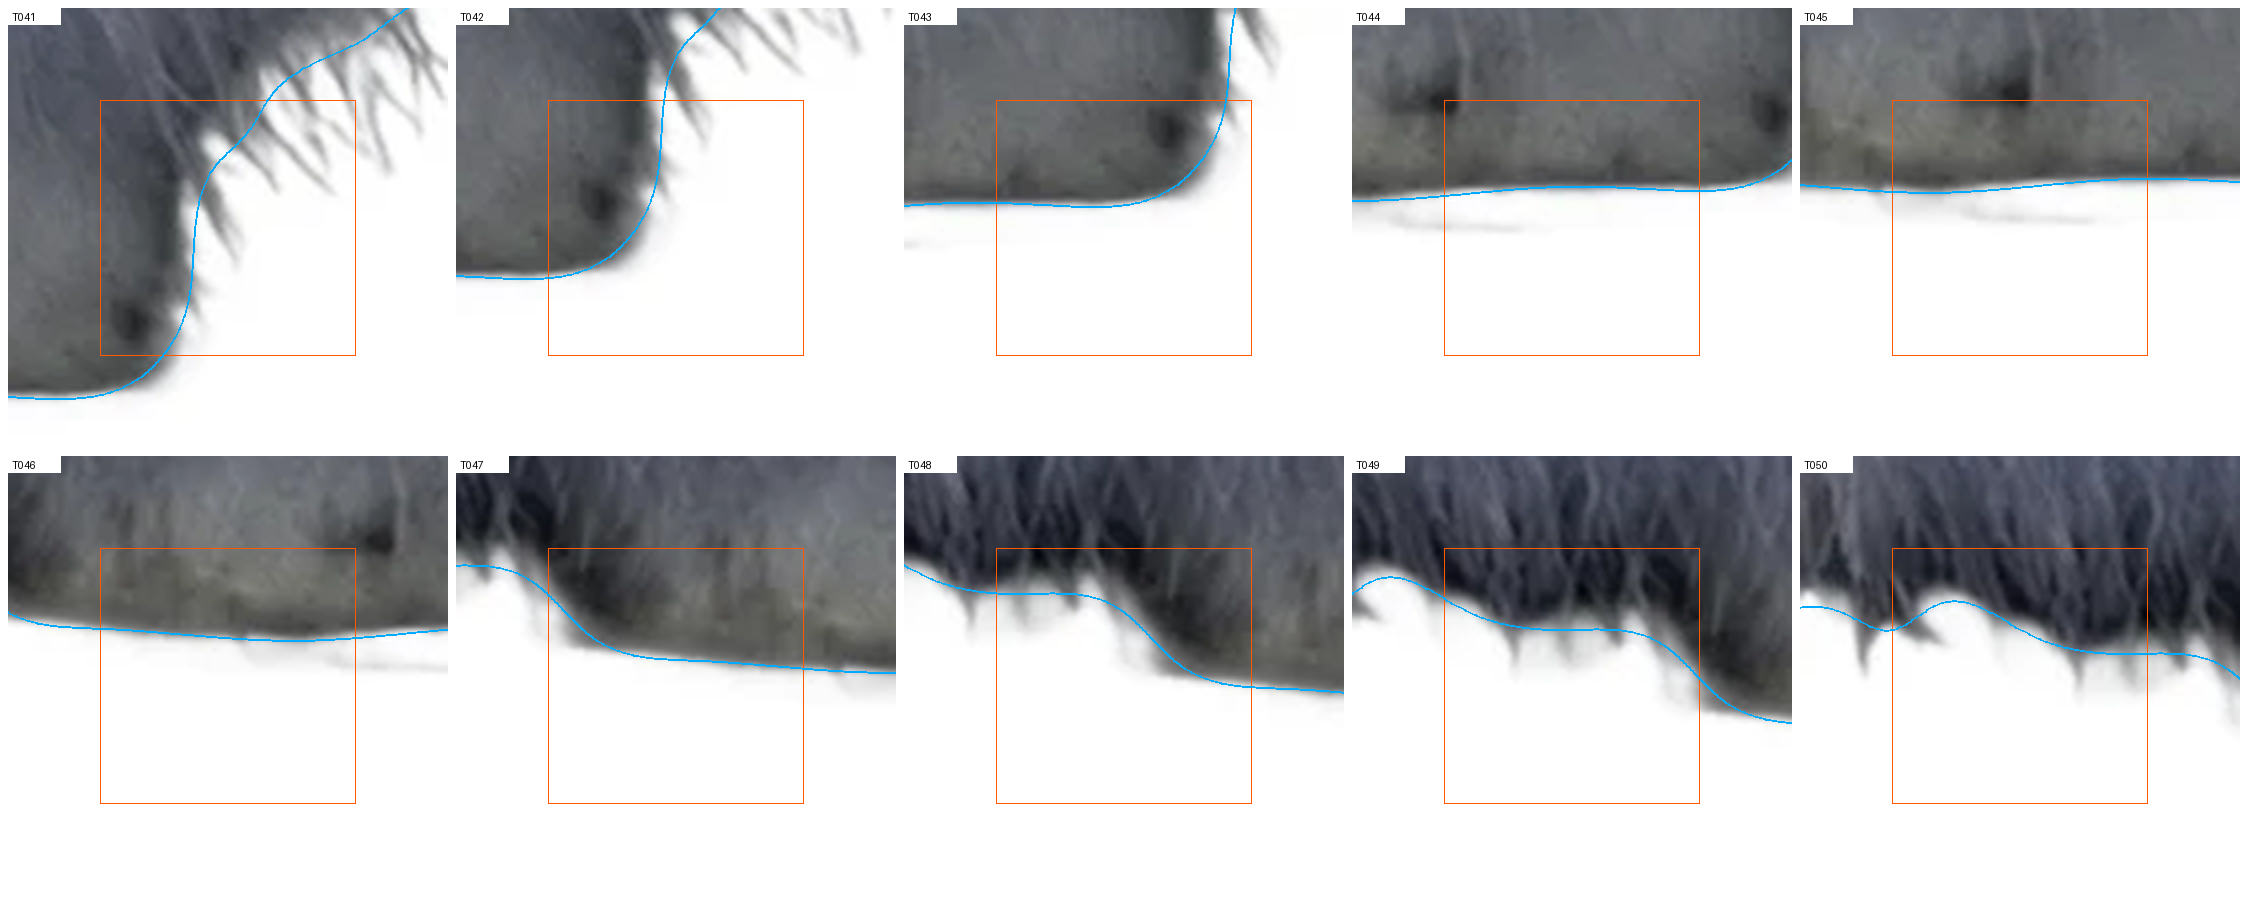
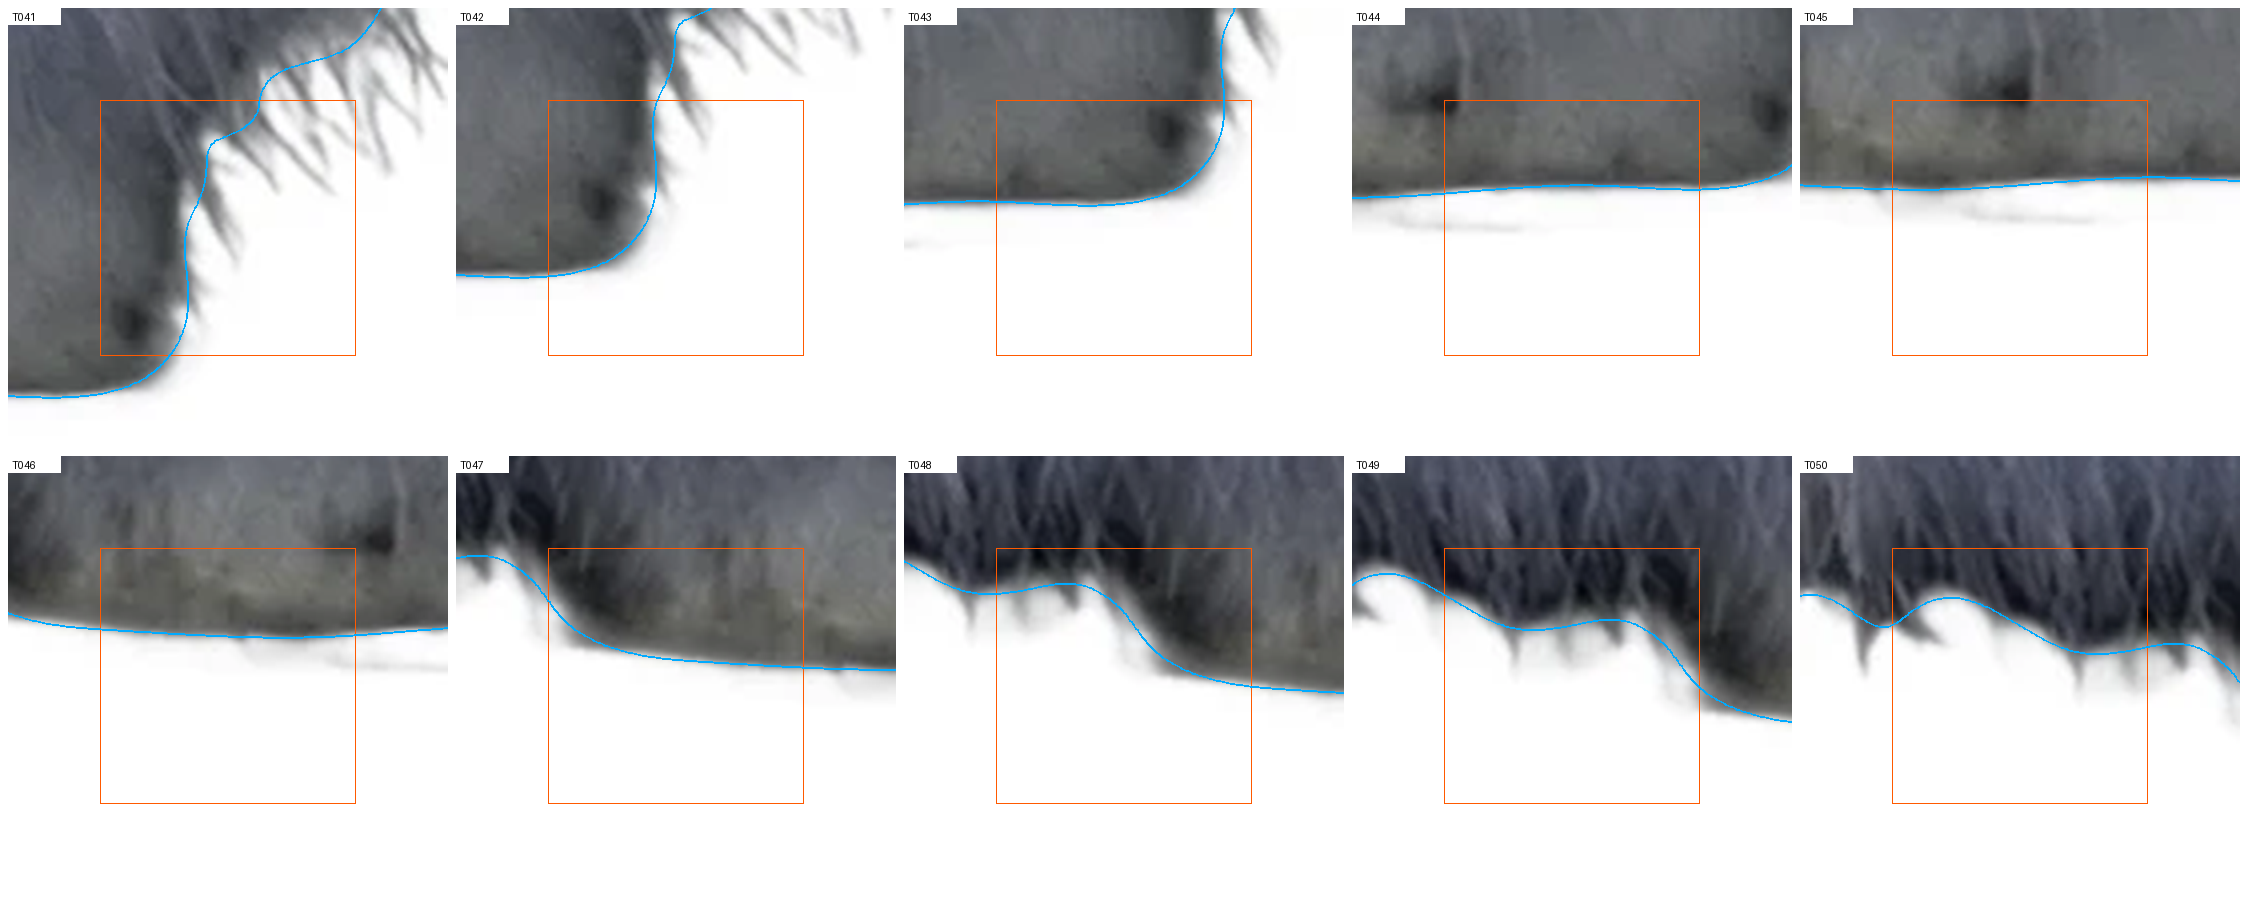
Outline batch3 (T041-T060) self-checked
Claude-Session: https://claude.ai/code/session_01GTfyFQVG4WXcpP4QQfGNqQ

diff --git a/docs/PROGRESS.md b/docs/PROGRESS.md
@@ -243,3 +243,4 @@ check.py output (if applicable), and the next step.
   (same as his sides). Test added (12 pass).
 - **batch1 (T013-T020) outline: self-checked** on the recalibrated line. Fidelity: no cuts, no bulges, no into-fringe > 6 px, smoother everywhere; eye marks 0 px out; peet line inside.
 - **batch2 (T021-T040) outline: self-checked** on the recalibrated line. Fidelity: flags: T030 into-fringe 7.0 px, T031 into-fringe 7.0 px; eye marks 0 px out; peet line inside.
+- **batch3 (T041-T060) outline: self-checked** on the recalibrated line. Fidelity: no cuts, no bulges, no into-fringe > 6 px, smoother everywhere; eye marks 0 px out; peet line inside.
